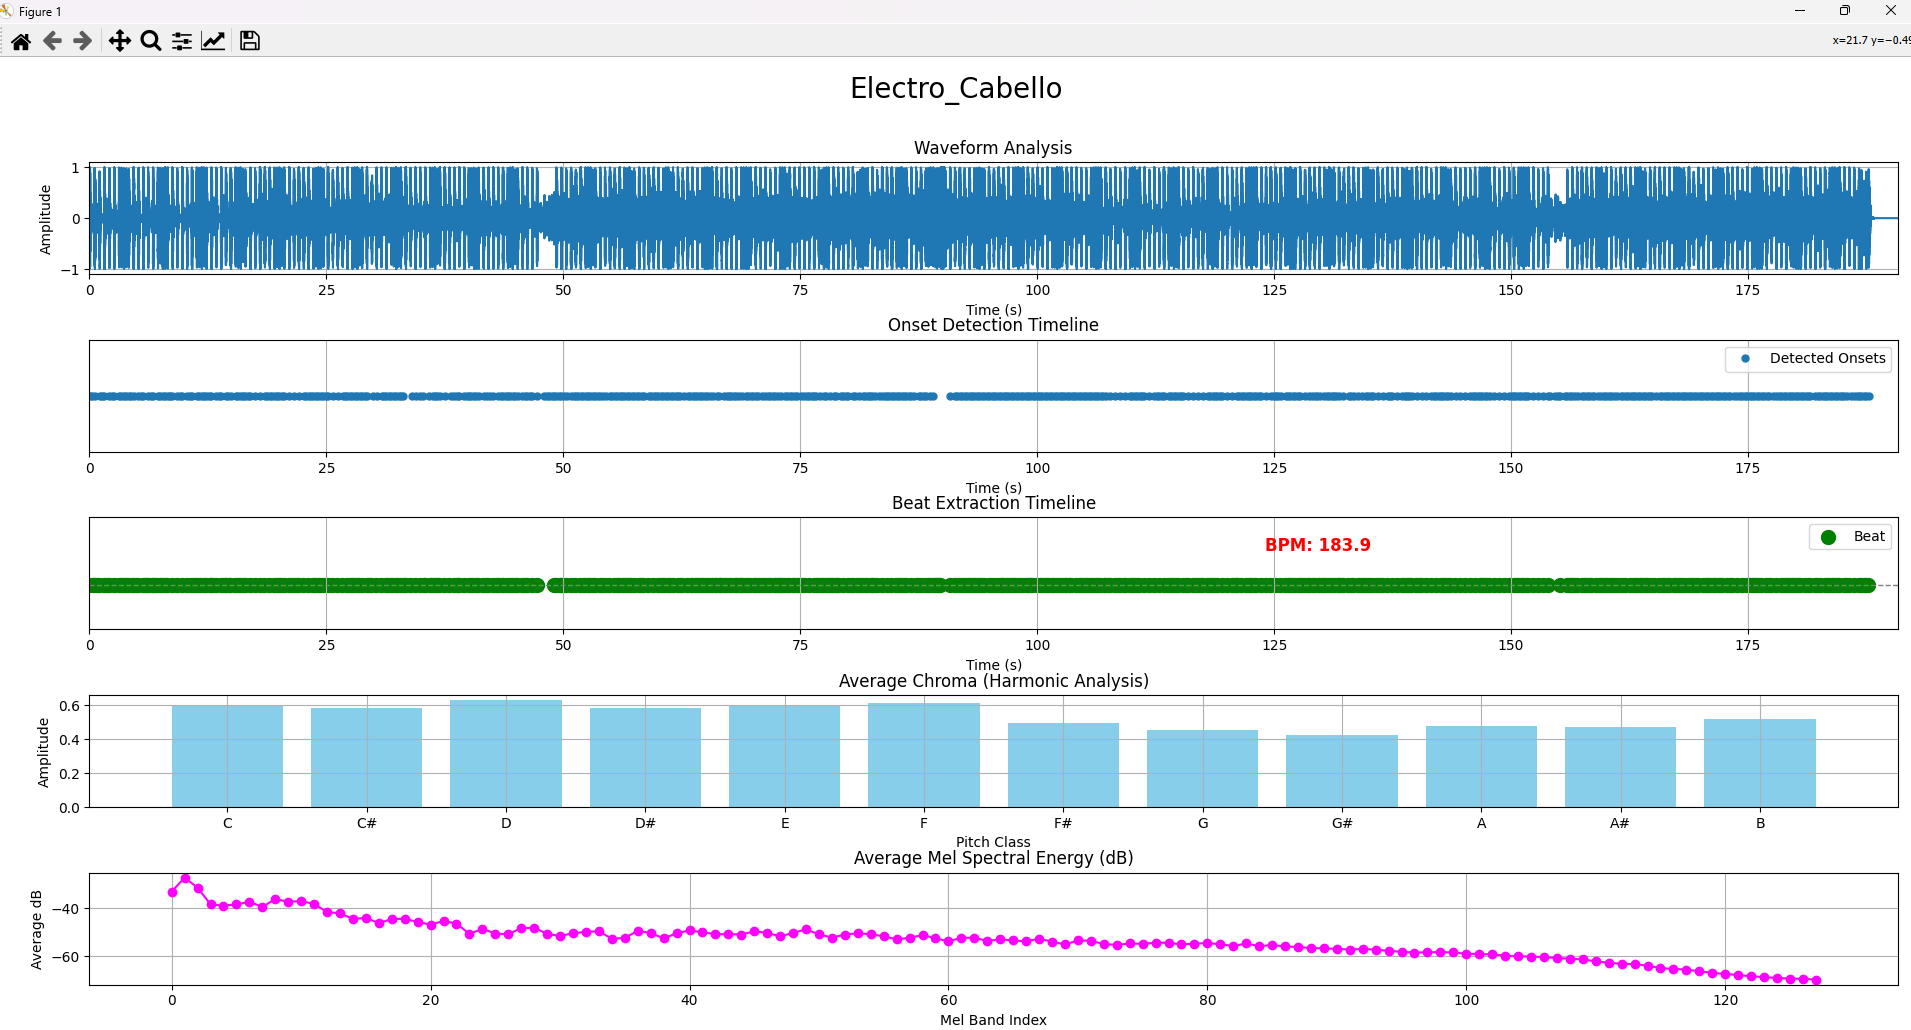
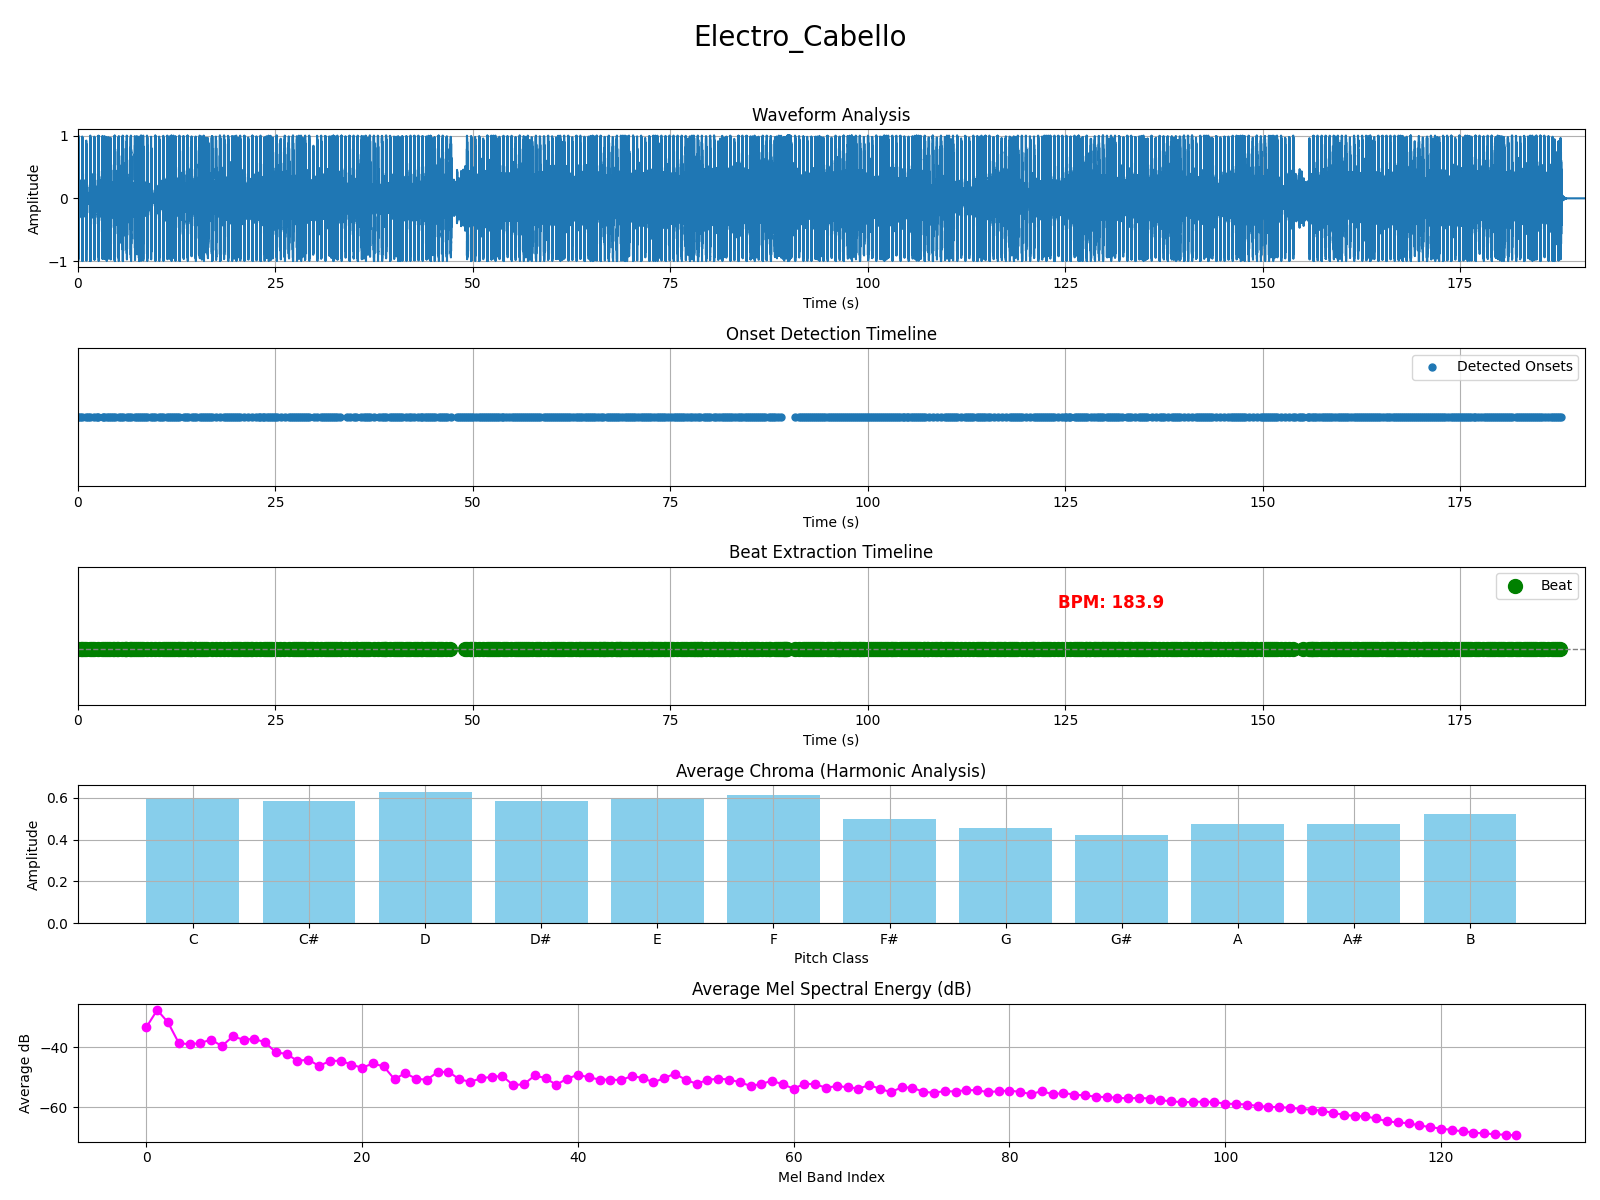
clean up

diff --git a/MIR/scripts/mir_dashboard.py b/MIR/scripts/mir_dashboard.py
@@ -1,0 +1,128 @@
+import json
+import matplotlib.pyplot as plt
+import numpy as np
+from pathlib import Path
+import librosa
+import librosa.display
+
+# === Configuration ===
+report_dir = Path(__file__).parent
+data_dir = report_dir / "../GeneratedSongData"
+png_output_dir = report_dir / "../pngs"
+png_output_dir.mkdir(exist_ok=True)
+pitch_classes = ['C', 'C#', 'D', 'D#', 'E', 'F', 'F#', 'G', 'G#', 'A', 'A#', 'B']
+
+# Iterate through all JSON files in the GeneratedSongData directory
+for song_data_file in data_dir.glob("*_song_data.json"):
+    song_base = song_data_file.stem.replace("_song_data", "")
+
+    # Load the merged song data JSON
+    try:
+        with open(song_data_file, "r") as f:
+            song_data = json.load(f)
+    except Exception as e:
+        print(f"Error loading song data: {e}")
+        continue
+
+    # === Extract Data from Reports ===
+    onsets = song_data.get("onset_extraction", {}).get("onsets", [])
+    duration = song_data.get("duration_sec", 0)
+
+    avg_chroma = song_data.get("chroma_harmonic", {}).get("avg_chroma", [])
+
+    avg_mel_db = song_data.get("spectral_analysis", {}).get("avg_mel_db", [])
+    mel_band_indices = np.arange(len(avg_mel_db))
+
+    # Beat times (in seconds)
+    beats = song_data.get("beat_extraction", {}).get("beats", [])
+
+    # === Load the Audio for Waveform Analysis ===
+    audio_path = report_dir / f"../../Resources/DefaultMusic/{song_base}.wav"
+    try:
+        y, sr = librosa.load(audio_path, sr=None)
+        audio_duration = librosa.get_duration(y=y, sr=sr)
+        t = np.linspace(0, audio_duration, num=len(y))
+    except Exception as e:
+        print(f"Error loading audio file {song_base}: {e}")
+        y, sr, t = None, None, None
+
+    # === Create Dashboard ===
+    plt.figure(figsize=(16, 12))
+    plt.suptitle(song_base, fontsize=20, y=0.98)
+
+    # Subplot 1: Waveform Analysis
+    plt.subplot(5, 1, 1)
+    plt.title("Waveform Analysis")
+    plt.xlabel("Time (s)")
+    plt.ylabel("Amplitude")
+    if y is not None and t is not None:
+        plt.plot(t, y, color='C0')
+        plt.xlim(0, audio_duration)
+    else:
+        plt.text(0.5, 0.5, "No audio data available",
+                 horizontalalignment='center',
+                 transform=plt.gca().transAxes)
+    plt.grid(True)
+
+    # Subplot 2: Onset Detection Timeline
+    plt.subplot(5, 1, 2)
+    plt.title("Onset Detection Timeline")
+    plt.xlabel("Time (s)")
+    if onsets:
+        plt.plot(onsets, np.ones_like(onsets), 'o', markersize=5,
+                 label="Detected Onsets")
+    plt.xlim(0, duration)
+    plt.yticks([])
+    plt.legend()
+    plt.grid(True)
+
+    # Subplot 3: Beat Extraction Timeline
+    plt.subplot(5, 1, 3)
+    plt.title("Beat Extraction Timeline")
+    plt.xlabel("Time (s)")
+    if beats and duration > 0:
+        bpm = len(beats) / duration * 60
+        plt.scatter(beats, np.full_like(beats, 1), color='green', s=100,
+                    label="Beat")
+        plt.hlines(1, 0, duration, colors='grey', linestyles='--', linewidth=1)
+        plt.text(duration * 0.65, 1.15, f"BPM: {bpm:.1f}",
+                 fontsize=12, color='red', weight='bold')
+    plt.xlim(0, duration)
+    plt.ylim(0.8, 1.3)
+    plt.yticks([])
+    if beats:
+        plt.legend()
+    plt.grid(True)
+
+    # Subplot 4: Chroma Analysis – Average Chroma Bar Chart
+    plt.subplot(5, 1, 4)
+    plt.title("Average Chroma (Harmonic Analysis)")
+    plt.xlabel("Pitch Class")
+    plt.ylabel("Amplitude")
+    if avg_chroma and len(avg_chroma) == 12:
+        plt.bar(pitch_classes, avg_chroma, color='skyblue')
+    else:
+        plt.text(0.5, 0.5, "No chroma data available",
+                 horizontalalignment='center',
+                 transform=plt.gca().transAxes)
+    plt.grid(True)
+
+    # Subplot 5: Spectral Analysis – Average Mel Spectral Energy
+    plt.subplot(5, 1, 5)
+    plt.title("Average Mel Spectral Energy (dB)")
+    plt.xlabel("Mel Band Index")
+    plt.ylabel("Average dB")
+    if avg_mel_db:
+        plt.plot(mel_band_indices, avg_mel_db, marker='o', linestyle='-',
+                 color='magenta')
+    else:
+        plt.text(0.5, 0.5, "No spectral energy data available",
+                 horizontalalignment='center',
+                 transform=plt.gca().transAxes)
+    plt.grid(True)
+
+    plt.tight_layout(rect=[0, 0, 1, 0.96])
+    plt.savefig(png_output_dir / f"{song_base}.png")
+    plt.close()
+
+    print(f"✅ Dashboard saved for {song_base}")
